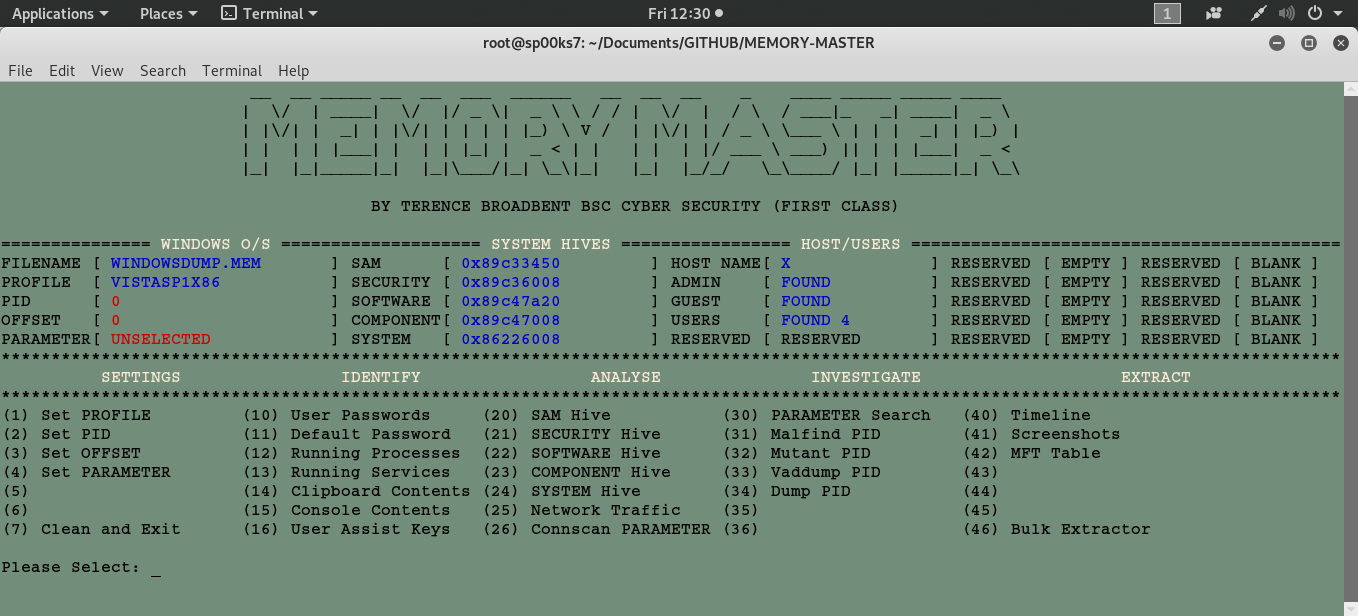
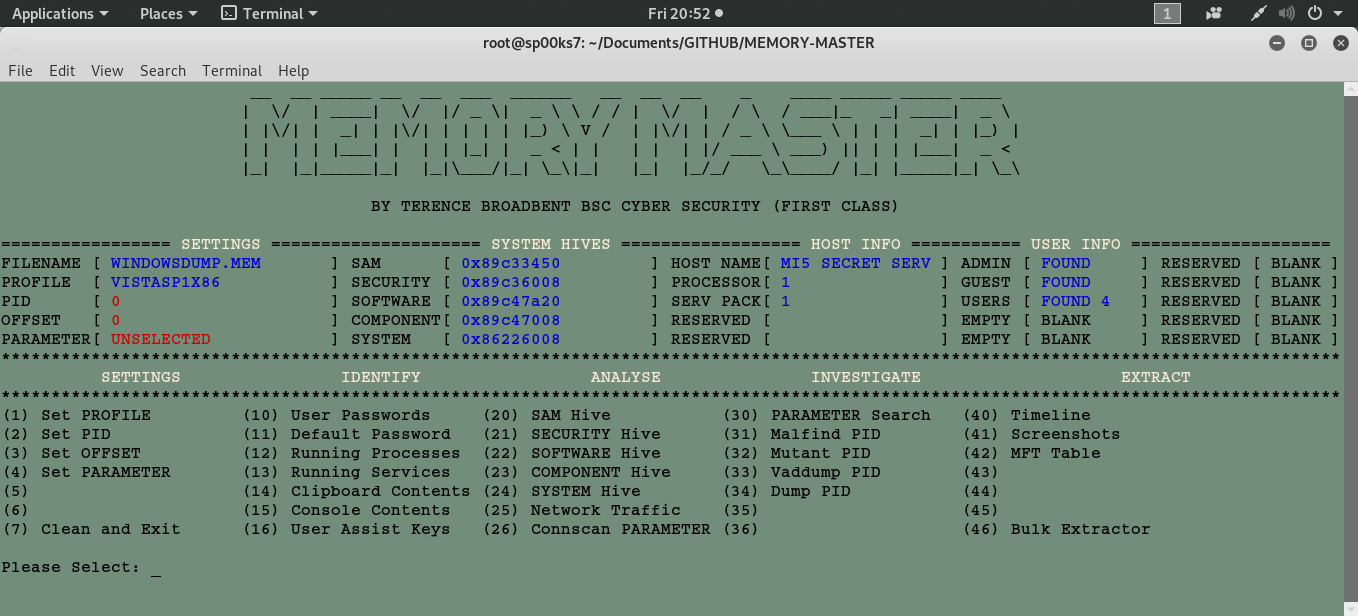
changes

Changed region(s): [[0.4948, 0.3701, 0.9897, 0.5552], [0.1237, 0.3701, 0.2165, 0.401], [0.4948, 0.0, 0.5258, 0.0308]]

diff --git a/memory_master.py b/memory_master.py
@@ -20,7 +20,7 @@ import subprocess
 import os.path
 import fileinput
 import shutil
-import unicodedata
+import linecache
 from termcolor import colored					# pip install termcolor
 
 # -------------------------------------------------------------------------------------
@@ -63,7 +63,7 @@ while len(fileName) < 25:
 # -------------------------------------------------------------------------------------
 
 PRO = "UNSELECTED           "
-DIS = "UNSELECTED           "
+PR2 = "UNSELECTED           "
 PRM = "UNSELECTED           "
 PI1 = "0                    "
 OFF = "0                    "
@@ -72,23 +72,19 @@ SEC = "0x0000000000000000"
 SOF = "0x0000000000000000"
 COM = "0x0000000000000000"
 SYS = "0x0000000000000000"
-HST = "NOT FOUND     "
-ADM = "NOT FOUND     "
-GUS = "NOT FOUND     "
-USR = "NOT FOUND     "
-UN4 = "RESERVED      "
-UN5 = "EMPTY"
-UN6 = "EMPTY"
-UN7 = "EMPTY"
-UN8 = "EMPTY"
-UN9 = "EMPTY"
+HST = "NOT FOUND      "
+PRC = "0              "
+SER = "0              "
+ADM = "NOT FOUND"
+GUS = "NOT FOUND"
+USR = "NOT FOUND"
 BLK = "BLANK"
 
 # -------------------------------------------------------------------------------------
 # AUTHOR  : Terence Broadbent                                                    
 # CONTRACT: GitHub
 # Version : 2.0                                                                
-# Details : Display a universal header.    
+# Details : PR2play a universal header.    
 # Modified: N/A                                                               
 # -------------------------------------------------------------------------------------
 
@@ -106,28 +102,48 @@ def header ():
 # AUTHOR  : Terence Broadbent                                                    
 # CONTRACT: GitHub                                                               
 # Version : 2.0
-# Details : Populate system variables.
+# Details : Populate key program variables.
 # Modified: N/A                                                               
 # -------------------------------------------------------------------------------------
 
 header()
-print "Booting!! - Please wait...\n"
+print "Booting system - Please wait...\n"
 
-os.system("volatility imageinfo -f " + fileName + " > IMAGE.txt")
-with open("IMAGE.txt") as fp:
-   line = fp.readline()
-   PRO = line.split(None,4)[3]
-   PRO = PRO.rstrip(',')
-   PRO = " --profile " + PRO
-   DIS = PRO.replace(" --profile ","")
-fp.close()
-os.remove('IMAGE.txt')
-while len(DIS) < 21:
-   DIS = DIS + " "
+os.system("volatility imageinfo -f " + fileName + " > image.txt")
+with open("image.txt") as search:
+   for word in search:
+      word = word
+      if "Suggested Profile(s) :" in word:
+         profiles = word
+      if "Number of Processors" in word:
+         PRC = word
+      if "Image Type (Service Pack) :" in word:
+         SER = word
+search.close()
+os.remove('image.txt')
 
-if PRO[:2] == "NO":
-   print "ERROR - Profile not found..."
-   exit(1)
+profiles = profiles.replace("Suggested Profile(s) :","")
+profiles = profiles.replace(" ","")
+profiles = profiles.split(",")
+PRO = " --profile " + profiles[0]
+PR2 = profiles[0]
+if PR2[:2] == "":
+   print "ERROR - Windows profile not found..."
+   exit(True)
+while len(PR2) < 21:
+   PR2 = PR2 + " "
+
+PRC = PRC.replace("Number of Processors :","")
+PRC = PRC.replace(" ","")
+PRC = PRC.replace("\n","")
+while len(PRC) < 15:
+   PRC = PRC + " "
+
+SER = SER.replace("Image Type (Service Pack) :","")
+SER = SER.replace(" ","")
+SER = SER.replace("\n","")
+while len(SER) < 15:
+   SER = SER + " "
 
 os.system("volatility -f " + fileName + PRO + " hivelist > hivelist.txt")
 with open("hivelist.txt") as fp:  
@@ -164,7 +180,7 @@ fp.close()
 os.remove('host.txt')
 wordlist = wordlist.split()
 HST = wordlist[-1].upper().rstrip('')
-while len(HST.encode()) < 15:          						# patch required len2 for X?
+while len(HST) < 15:          								# patch ????
    HST = HST + " "
 
 os.system("echo 'HASH FILE' > hash.txt")
@@ -175,41 +191,43 @@ with open("hash.txt") as fp:
    while line:
       line = fp.readline()
       if "Administrator" in line:
-         ADM = "FOUND         "
+         ADM = "FOUND    "
       if "Guest" in line :
-         GUS = "FOUND         "
+         GUS = "FOUND    "
       usercount = usercount + 1
 fp.close()
 os.remove('hash.txt')
 
 usercount = usercount -1
-if ADM == "FOUND         ":
+if ADM == "FOUND    ":
    usercount = usercount -1
-if GUS == "FOUND         ":
+if GUS == "FOUND    ":
    usercount = usercount -1
 if usercount > 0:
    USR = "FOUND "
    USR = USR + str(usercount)
-while len(USR) < 14:
+while len(USR) < 9:
    USR = USR + " "
 
 # -------------------------------------------------------------------------------------
 # AUTHOR  : Terence Broadbent                                                    
 # CONTRACT: GitHub                                                               
 # Version : 2.0
-# Details : Display pertinant system information.
+# Details : PR2play pertinant system information.
 # Modified: N/A                                                               
 # -------------------------------------------------------------------------------------
 
-def display():
-   print "="*15,
-   print colored("WINDOWS O/S",'white'),
-   print "="*20,
-   print colored("SYSTEM HIVES",'white'),
+def PR2play():
    print "="*17,
-   print colored("HOST/USERS",'white'),
-   print "="*43
-
+   print colored("SETTINGS",'white'),
+   print "="*21,
+   print colored("SYSTEM HIVES",'white'),
+   print "="*18,
+   print colored("HOST INFO",'white'),
+   print "="*11,
+   print colored("USER INFO",'white'),
+   print "="*20
+# -------------------------------------------------------------------------------------
    print "FILENAME [",
    print colored(str.upper(fileName[:21]),'blue'),
    print "] SAM      [",
@@ -219,30 +237,38 @@ def display():
       print colored(SAM,'blue'),
    print "] HOST NAME[",
    if HST == "NOT FOUND         ":
-      print colored(HST,'red'),
+      print colored(HST[:15],'red'),
    else:
-       print colored(HST,'blue'),
-   print "] RESERVED [ " + UN5 + " ]",
-   print "RESERVED [ " + BLK + " ]"   #new
-
+       print colored(HST[:15],'blue'),
+   print "] ADMIN [",
+   if ADM == "NOT FOUND":
+      print colored(ADM,'red'),
+   else:
+      print colored(ADM,'blue'),
+   print "] RESERVED [ " + BLK + " ]"
+# -------------------------------------------------------------------------------------
    print "PROFILE  [",
-   if DIS == "UNSELECTED              ":
-      print colored(str.upper(DIS),'red'),
+   if PR2 == "UNSELECTED              ":
+      print colored(str.upper(PR2),'red'),
    else:
-      print colored(str.upper(DIS),'blue'),
+      print colored(str.upper(PR2),'blue'),
    print "] SECURITY [",
    if SEC == "0x0000000000000000":
       print colored(SEC,'red'),
    else:
       print colored(SEC,'blue'),
-   print "] ADMIN    [",
-   if ADM == "NOT FOUND         ":
-      print colored(ADM,'red'),
+   print "] PROCESSOR[",
+   if PRC == 0:
+      print colored(HST,'red'),
    else:
-      print colored(ADM,'blue'),
-   print "] RESERVED [ " + UN6 + " ]",
-   print "RESERVED [ " + BLK + " ]"   #new
-
+       print colored(PRC,'blue'),
+   print "] GUEST [",
+   if ADM == "NOT FOUND":
+      print colored(GUS,'red'),
+   else:
+      print colored(GUS,'blue'),
+   print "] RESERVED [ " + BLK + " ]"
+# -------------------------------------------------------------------------------------
    print "PID      [",
    if PI1[:1] == "0":
       print colored(PI1,'red'),
@@ -253,14 +279,18 @@ def display():
       print colored(SOF,'red'),
    else:
       print colored(SOF,'blue'),
-   print "] GUEST    [",
-   if GUS == "NOT FOUND         ":
-      print colored(GUS,'red'),
+   print "] SERV PACK[",
+   if SER == "0             ":
+      print colored(SER,'red'),
    else:
-      print colored(GUS,'blue'),
-   print "] RESERVED [ " + UN7 + " ]",
-   print "RESERVED [ " + BLK + " ]"   #new
-
+      print colored(SER,'blue'),
+   print "] USERS [",
+   if USR == "NOT FOUND":
+      print colored(USR,'red'),
+   else:
+      print colored(USR,'blue'),
+   print "] RESERVED [ " + BLK + " ]"
+# -------------------------------------------------------------------------------------
    print "OFFSET   [",
    if OFF[:1] == "0":
       print colored(OFF,'red'),
@@ -271,14 +301,10 @@ def display():
       print colored(COM,'red'),
    else:
       print colored(COM,'blue'),
-   print "] USERS    [",
-   if USR == "NOT FOUND         ":
-      print colored(USR,'red'),
-   else:
-      print colored(USR,'blue'),
-   print "] RESERVED [ " + UN8 + " ]",
-   print "RESERVED [ " + BLK + " ]"   #new
-
+   print "] RESERVED [                 ]",
+   print "EMPTY [ BLANK     ]",
+   print "RESERVED [ " + BLK + " ]"
+# -------------------------------------------------------------------------------------
    print "PARAMETER[",
    if PRM == "UNSELECTED           ":
       print colored(PRM,'red'),
@@ -289,9 +315,10 @@ def display():
       print colored(SYS,'red'),
    else:
       print colored(SYS,'blue'),
-   print "] RESERVED [ " + UN4 + " ] RESERVED [ " + UN9 + " ]",
-   print "RESERVED [ " + BLK + " ]"   #new
-
+   print "] RESERVED [                 ]",
+   print "EMPTY [ BLANK     ]",
+   print "RESERVED [ " + BLK + " ]"
+# -------------------------------------------------------------------------------------
    print "*"*134
    print " "*9,
    print colored("SETTINGS",'white'),
@@ -334,7 +361,7 @@ menu['(7)']="Clean and Exit	(16) User Assist Keys 	(26) Connscan PARAMETER	(36)	
 
 while True: 
    header()
-   display()
+   PR2play()
    options=menu.keys()
    options.sort()
    for entry in options: 
@@ -365,9 +392,9 @@ while True:
          PRO = BAK
       else:
          PRO = " --profile " + PRO
-         DIS = PRO.replace(" --profile ","")
-         while len(DIS) < 21:
-            DIS += " "
+         PR2 = PRO.replace(" --profile ","")
+         while len(PR2) < 21:
+            PR2 += " "
       fp.close()        
 
 # ------------------------------------------------------------------------------------- 
@@ -456,7 +483,7 @@ while True:
 # AUTHOR  : Terence Broadbent                                                    
 # CONTRACT: GitHub
 # Version : 2.0
-# Details : Menu option selected - Dispays any LSA secrets
+# Details : Menu option selected - PR2pays any LSA secrets
 # Modified: N/A
 # -------------------------------------------------------------------------------------
 

diff --git a/README.md b/README.md
@@ -5,7 +5,7 @@ Python script file to forensically investigate memory dump files via volatility.
 
 | LANGUAGE  | FILENAME         | MD5 Hash                         |
 |------     |------            | -------                          |
-| python    | memory_master.py | 429a4cc58049dc5218f44a7083d21763 |
+| python    | memory_master.py | 6af10476594418435e6b75a9988f8a18 |
 | text file | profiles.txt     | 90a98544725dc945df30c20fabeb3e80 |
 | bash file | patch.sh         | 7a4231731982e09d9a703f7357170755 |
 
